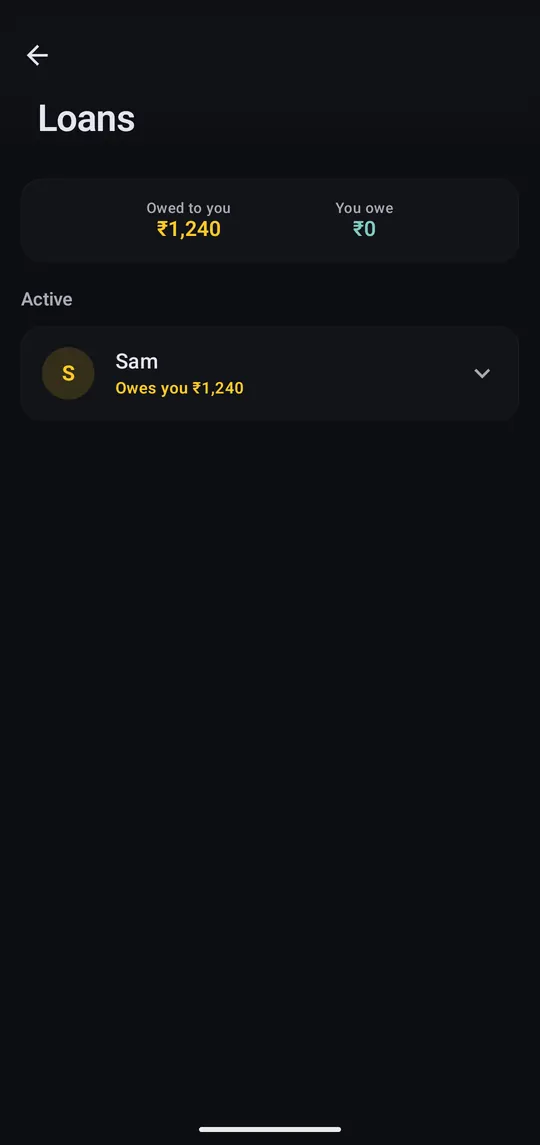
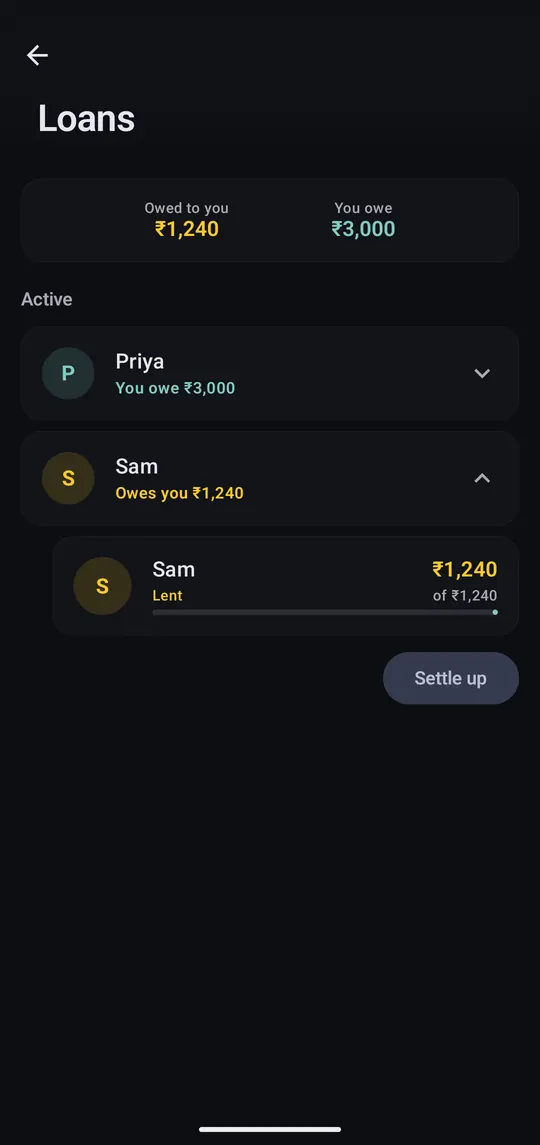
feat(web): lent and borrowed money guide; fill feature gaps
Loans guide now covers lending, borrowing, repayments (link or manual,
partial), settling and how loans stay out of totals, with six new
screenshots. Adds tags/notes/receipts/split/apply-to-merchant to the
transactions guide, low-balance alerts and Personal/Business profiles to
accounts, lock timeout to settings, and search synonyms for them.

diff --git a/pennywise-web/server/src/main/kotlin/ui/GuideViews.kt b/pennywise-web/server/src/main/kotlin/ui/GuideViews.kt
@@ -137,9 +137,15 @@ object GuideViews {
                 Step("transactions-select", "Tap the rest", "Tap every other one you want. The totals card shows just your selection.", 40, 77),
                 Step("transactions-select", "Pick an action", "The top bar marks them as a transfer, changes their category, groups or deletes them.", 70, 5),
             ),
-            "search filter bulk select multiple edit delete recategorise duplicate",
+            "search filter bulk select multiple edit delete recategorise duplicate tag tags note receipt photo split",
         ) {
-            p { +"Excluding a transaction from analytics keeps it in your history and balance but leaves it out of spending totals. Find the switch on its detail page." }
+            dl(classes = "defs") {
+                def("Tags and notes", "The pencil adds tags, a description and a display name. Tags can apply to every future transaction from the same merchant.")
+                def("Receipt photos", "Attach one from the gallery or camera when adding or editing.")
+                def("Split into categories", "Spread one expense across several categories from its detail page.")
+                def("Same merchant, every time", "When changing a category, apply it to all transactions from that merchant.")
+                def("Exclude from analytics", "Keeps it in your history and balance but out of spending totals.")
+            }
         },
         Guide(
             "analytics", "Everyday", "See where your money goes",
@@ -204,16 +210,23 @@ object GuideViews {
             p { +"Free accounts get one recurring transaction; Pro is unlimited." }
         },
         Guide(
-            "loans", "Plan ahead", "Track money friends owe you",
-            "Paid for someone? Keep track of who owes whom.",
+            "loans", "Plan ahead", "Lent and borrowed money",
+            "Track money you lend to friends and money you borrow, including partial repayments.",
             listOf(
-                Step("transaction-detail", "Open the payment", "Find what you paid for them and tap Mark as loan.", 50, 37),
-                Step("mark-loan", "Say who", "Type their name and how much they owe, then Confirm.", 50, 55),
-                Step("loans", "Keep track", "Settings → Loans lists who owes you and whom you owe."),
+                Step("loan-income", "Start from the payment", "Open the payment you made for them, or the money they sent you, and tap Mark as loan. No transaction yet? Add one first.", 50, 37),
+                Step("loan-lent", "Lent: say who", "On money you paid out, it asks who you paid for. Enter their name and how much they owe; it can be less than the full amount.", 50, 91),
+                Step("loan-borrowed", "Borrowed: say who", "On money you received, it becomes a loan you owe: “Who paid for you?” Enter the name and Confirm.", 50, 91),
+                Step("loans", "See who owes whom", "Settings → Loans totals what you're owed and what you owe, person by person. Settle up clears everything with one person.", 83, 59),
+                Step("loan-repay", "Record a repayment", "Open a loan and tap +. Link the transaction they paid you back with, or type the amount under Or enter manually.", 50, 57),
+                Step("loan-detail", "Watch it go down", "History lists every payment. Partial repayments are fine, and the loan settles itself when it reaches zero. ⋮ settles early, changes the amount expected back, or deletes it.", 93, 5),
             ),
-            "lend lent borrow split owe friend",
+            "lend lent lending borrow borrowed loan split owe owes owed owing friend repay repaid repayment debt iou money back",
+            cover = "loans",
         ) {
-            p { +"Only lent part of it? Enter just the amount they owe instead of the full payment." }
+            p { +"Loans stay out of your totals: lent money isn't spending, borrowed money isn't income, and repayments aren't either, so your monthly numbers stay honest." }
+            p { +"Paid back by UPI? Marking that incoming payment as a loan with the same person's name records it as a repayment automatically." }
+            p { +"Settle a loan you lent for less than you're owed and the unpaid part counts as spending in the month you settle it." }
+            p { +"Each loan is in one currency. There are no due dates or interest yet. Active loans also show on Home, which you can hide with Edit home screen." }
         },
         Guide(
             "groups", "Plan ahead", "Total up a trip or event",
@@ -249,10 +262,14 @@ object GuideViews {
                 Step("accounts", "Add cash or a wallet", "Tap + to add an account that doesn't send SMS, like cash in hand.", 89, 92),
                 Step("account-detail", "Check its history", "Tap an account on Home to see its balance trend and transactions.", 75, 36),
             ),
-            "balance wrong cash wallet manual account credit card merge",
+            "balance wrong cash wallet manual account credit card merge low alert business personal profile",
         ) {
             p { +"Accounts are created from your SMS, one per bank account or card. Balances update whenever a message includes one. Credit cards show their limit, outstanding and available amount." }
             p { +"Same card showing up twice under different numbers? Merge them from Manage Accounts (Pro)." }
+            dl(classes = "defs") {
+                def("Low-balance alert", "An account's ⋮ menu sets a threshold; the account is flagged when it drops below it.")
+                def("Personal and Business", "Mark an account as Business from its ⋮ menu, then use the profile filter on Home and Transactions to see one side at a time.")
+            }
         },
         Guide(
             "currencies", "Organise", "Use more than one currency",
@@ -277,7 +294,7 @@ object GuideViews {
             "theme dark light lock fingerprint widget notification webhook language contacts",
         ) {
             dl(classes = "defs") {
-                def("App Lock", "Fingerprint or face unlock. Set up biometrics in Android first.")
+                def("App Lock", "Fingerprint or face unlock, with a lock timeout. Set up biometrics in Android first.")
                 def("Widgets", "Long-press your home screen → Widgets → PennyWise: Add Transaction, Budget Overview, Spending Pie, Recent Transactions.")
                 def("Notifications", "Each new transaction can notify you, with buttons to change its category right there.")
                 def("Bank Notification Access", "Also read bank app notifications, for banks that notify instead of texting.")
